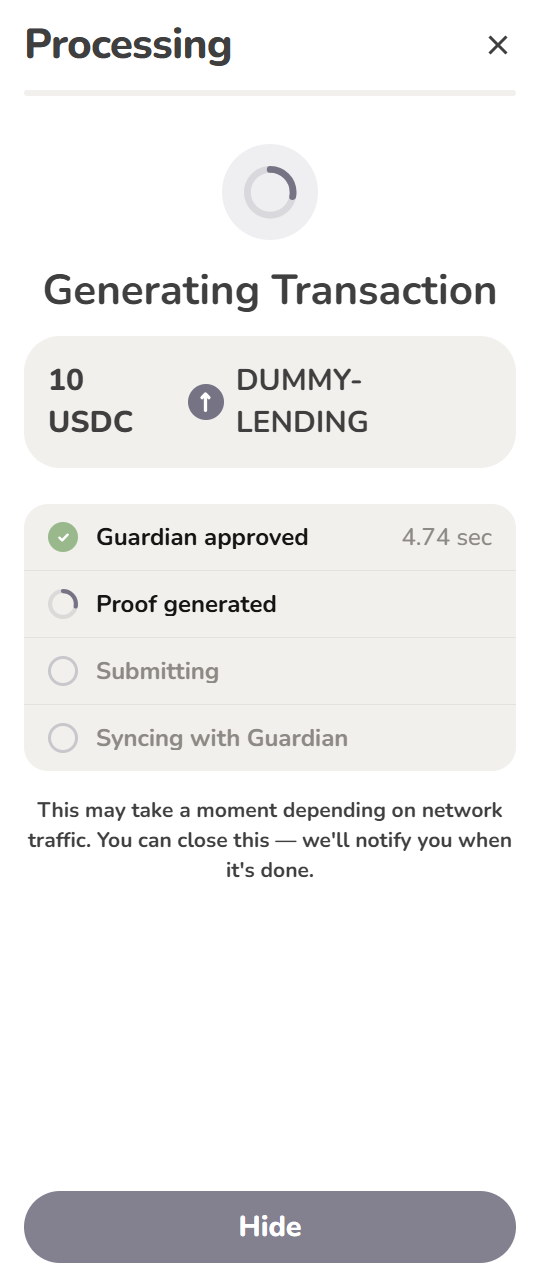
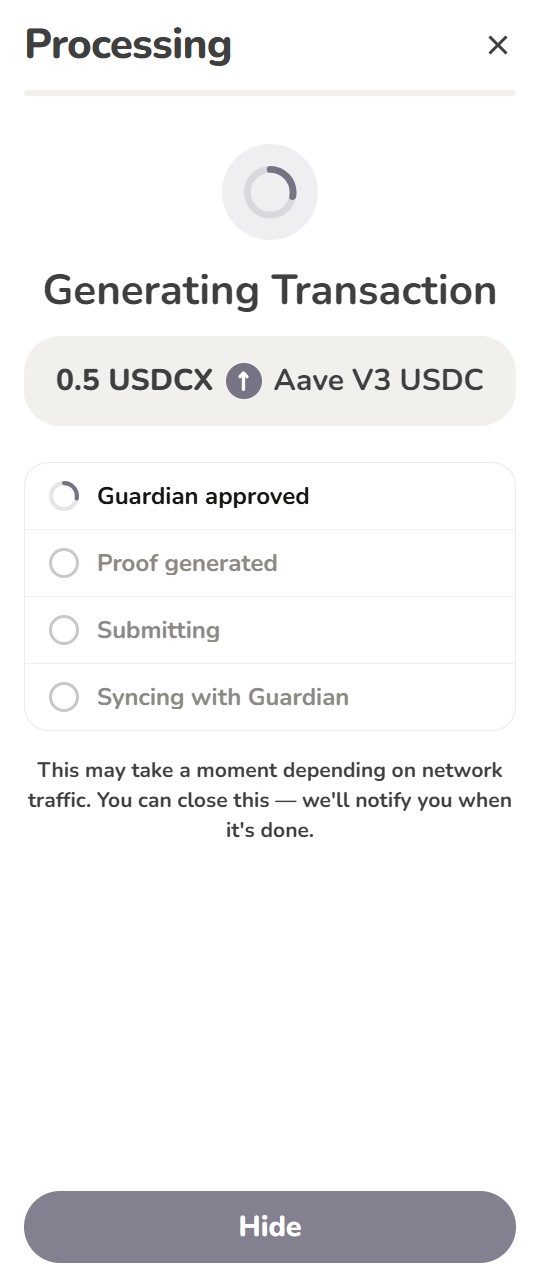
content: Earn deposit screenshots retaken on mainnet wallet 1.17.7
E35 to E40 (FAQ 44, How do I deposit into Earn?) now show the live flow:
mainnet, wallet 1.17.7 (Chrome Web Store build), a 1 USDCX deposit into
Aave V3 USDC on Arbitrum. Same file names and sizes (540 x 1287).

Because the screenshots are no longer the 1.16.2 Testnet ones, FAQ 44
drops the sentence that said so, and its six image descriptions drop
"Bread 1.16.2 Testnet"; E35's reads Available Vaults, the current label.
No other wording changes. FAQs 45 and 49 keep their 1.16.2 Testnet notes,
since their screenshots are unchanged. Mirrored into
tasks/faq/bread-faq-content.md, and the content test now expects the note
on those three articles and its absence on FAQ 44.

diff --git a/src/help-center/current-wallet-content.test.ts b/src/help-center/current-wallet-content.test.ts
@@ -103,10 +103,14 @@ describe('verified wallet behavior', () => {
   });
 
   it('labels retained Earn screenshots as historical illustrations', () => {
-    for (const id of ['how-do-i-deposit-into-earn', 'how-do-i-check-my-earn-position', 'how-do-i-withdraw-from-earn', 'what-should-i-do-if-an-earn-deposit-or-withdrawal-fails']) {
+    for (const id of ['how-do-i-check-my-earn-position', 'how-do-i-withdraw-from-earn', 'what-should-i-do-if-an-earn-deposit-or-withdrawal-fails']) {
       expect(body(id)).toContain('captured on Bread 1.16.2 Testnet');
       expect(body(id)).toContain('older flow');
     }
+  });
+
+  it('does not call the retaken Mainnet 1.17.7 deposit screenshots historical', () => {
+    expect(body('how-do-i-deposit-into-earn')).not.toContain('1.16.2 Testnet');
   });
 
   it('does not infer fast transfers from Earn being enabled', () => {

diff --git a/src/help-center/content/44-how-do-i-deposit-into-earn.md b/src/help-center/content/44-how-do-i-deposit-into-earn.md
@@ -10,35 +10,33 @@ Earn depends on your installed version, network, eligibility and an available pr
 
 **Before depositing:** Do not start new deposits into Ethereum or Arbitrum Earn markets while their withdrawal path is unavailable. Deposits there were reported working on 26 October 2026, but withdrawals were reported working only from Base to Miden. A later report described positions-loading failures and a deposit still pending after the success screen, so do not infer settlement or a reliable exit from those earlier tests. Check the current status in [*Can I earn yield in Bread?*](#earn/can-i-earn-yield-in-bread) and confirm an available withdrawal path for the exact market before starting a new deposit.
 
-The screenshots below were captured on Bread 1.16.2 Testnet. They illustrate an older flow; token names, balances and layouts can differ from your installed version.
-
 Depositing spends USDCx from your Miden balance. The supported route supplies native USDC to the external lending market and opens a position there.
 
 **Steps:**
 
 1. Open Bread and select **Earn**.
 
-   ![Bread 1.16.2 Testnet Earn page, with Featured Vaults and no active positions](E35-earn-tab.png)
+   ![Bread Wallet's Earn page, with Available Vaults and no active positions](E35-earn-tab.png)
 
 2. Select a supported vault, check its market and network, then select **Deposit** if it is available.
 
-   ![Bread 1.16.2 Testnet vault page, with the Deposit button](E36-earn-vault.png)
+   ![Bread Wallet's vault page, with the Deposit button](E36-earn-vault.png)
 
 3. Enter the amount of USDCx to deposit, leaving enough for the displayed network fee, then select **Confirm**.
 
-   ![Bread 1.16.2 Testnet Deposit Amount page, showing the older USDC label](E37-earn-deposit-amount.png)
+   ![Bread Wallet's Deposit Amount page, with an amount entered](E37-earn-deposit-amount.png)
 
 4. Check the **Deposit Amount**, market, **Route**, **Estimated time** and **Max network fee**. Select **Open position** only when the details are correct and the action is available.
 
-   ![Bread 1.16.2 Testnet deposit review, with the Open position button](E38-earn-deposit-review.png)
+   ![Bread Wallet's deposit review, with the Open position button](E38-earn-deposit-review.png)
 
 5. Bread shows **Generating Transaction** while it processes the deposit. You can select **Hide** and follow its status in **Activity**. Do not start another deposit because this screen takes longer than expected.
 
-   ![Bread 1.16.2 Testnet Generating Transaction page for an Earn deposit](E39-earn-deposit-generating.png)
+   ![Bread Wallet's Generating Transaction page for an Earn deposit](E39-earn-deposit-generating.png)
 
 6. Bread may show **You're Earning!** while **Activity** still shows **Pending**. This screen does not confirm settlement. Select **Done**, let the wallet sync, then check the existing transaction status, spendable balance and position. If they do not reconcile or positions cannot load, contact [support](/feedback) before submitting again.
 
-   ![Bread 1.16.2 Testnet success page for an Earn deposit](E40-earn-deposit-success.png)
+   ![Bread Wallet's success page for an Earn deposit, showing You're Earning!](E40-earn-deposit-success.png)
 
 Your position appears under **Current Positions** in **Earn** after it loads. See [*How do I check my Earn position?*](#earn/how-do-i-check-my-earn-position)
 

diff --git a/tasks/faq/bread-faq-content.md b/tasks/faq/bread-faq-content.md
@@ -388,35 +388,33 @@ Earn depends on your installed version, network, eligibility and an available pr
 
 **Before depositing:** Do not start new deposits into Ethereum or Arbitrum Earn markets while their withdrawal path is unavailable. Deposits there were reported working on 26 October 2026, but withdrawals were reported working only from Base to Miden. A later report described positions-loading failures and a deposit still pending after the success screen, so do not infer settlement or a reliable exit from those earlier tests. Check the current status in *Can I earn yield in Bread?* and confirm an available withdrawal path for the exact market before starting a new deposit.
 
-The screenshots below were captured on Bread 1.16.2 Testnet. They illustrate an older flow; token names, balances and layouts can differ from your installed version.
-
 Depositing spends USDCx from your Miden balance. The supported route supplies native USDC to the external lending market and opens a position there.
 
 **Steps:**
 
 1. Open Bread and select **Earn**.
 
-   ![Bread 1.16.2 Testnet Earn page, with Featured Vaults and no active positions](E35-earn-tab.png)
+   ![Bread Wallet's Earn page, with Available Vaults and no active positions](E35-earn-tab.png)
 
 2. Select a supported vault, check its market and network, then select **Deposit** if it is available.
 
-   ![Bread 1.16.2 Testnet vault page, with the Deposit button](E36-earn-vault.png)
+   ![Bread Wallet's vault page, with the Deposit button](E36-earn-vault.png)
 
 3. Enter the amount of USDCx to deposit, leaving enough for the displayed network fee, then select **Confirm**.
 
-   ![Bread 1.16.2 Testnet Deposit Amount page, showing the older USDC label](E37-earn-deposit-amount.png)
+   ![Bread Wallet's Deposit Amount page, with an amount entered](E37-earn-deposit-amount.png)
 
 4. Check the **Deposit Amount**, market, **Route**, **Estimated time** and **Max network fee**. Select **Open position** only when the details are correct and the action is available.
 
-   ![Bread 1.16.2 Testnet deposit review, with the Open position button](E38-earn-deposit-review.png)
+   ![Bread Wallet's deposit review, with the Open position button](E38-earn-deposit-review.png)
 
 5. Bread shows **Generating Transaction** while it processes the deposit. You can select **Hide** and follow its status in **Activity**. Do not start another deposit because this screen takes longer than expected.
 
-   ![Bread 1.16.2 Testnet Generating Transaction page for an Earn deposit](E39-earn-deposit-generating.png)
+   ![Bread Wallet's Generating Transaction page for an Earn deposit](E39-earn-deposit-generating.png)
 
 6. Bread may show **You're Earning!** while **Activity** still shows **Pending**. This screen does not confirm settlement. Select **Done**, let the wallet sync, then check the existing transaction status, spendable balance and position. If they do not reconcile or positions cannot load, contact [support](/feedback) before submitting again.
 
-   ![Bread 1.16.2 Testnet success page for an Earn deposit](E40-earn-deposit-success.png)
+   ![Bread Wallet's success page for an Earn deposit, showing You're Earning!](E40-earn-deposit-success.png)
 
 Your position appears under **Current Positions** in **Earn** after it loads. See *How do I check my Earn position?*
 
